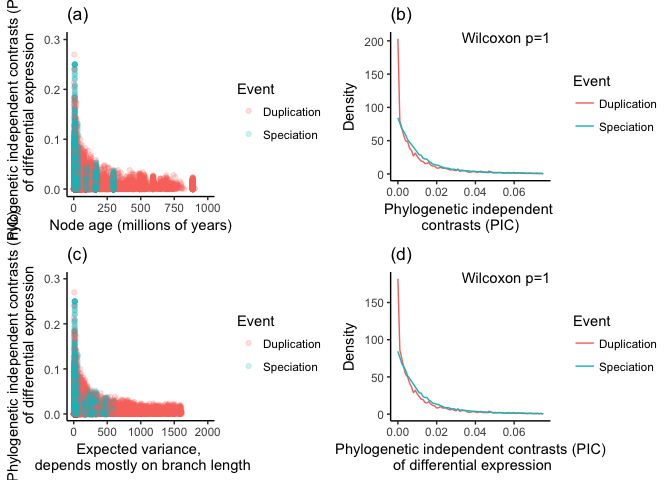
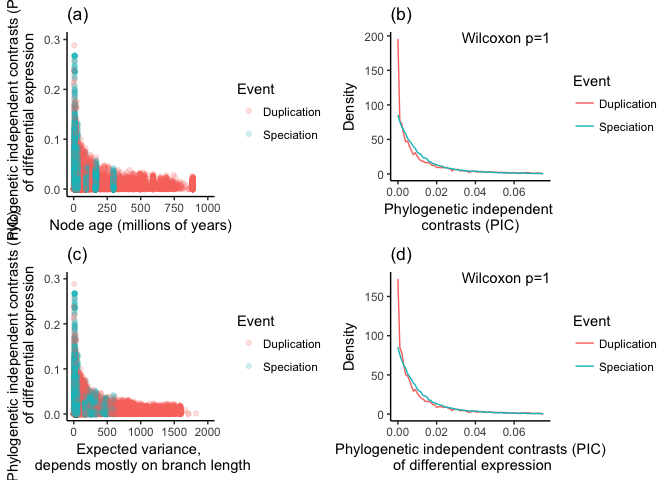
fixed Hominini node names

diff --git a/manuscript.md b/manuscript.md
@@ -67,7 +67,7 @@ To test the ortholog conjecture it is essential to have a null hypothesis that m
 
 > Figure XXKMRR | Density plot of the magnitude of phylogenetic independent contrast values following duplication and speciation events. These contrasts are not larger following duplication events, as predicted by the ortholog conjecture.
 
-When we reanalyze the data with phylogenetic independent contrasts (Fig. 1B), we did not find increased evolutionary change in expression following duplication events (Fig. XXKMRR). Of the 21124 trees that were parsed from ENSMBL Compara<sup>21</sup>, 8859 passed taxon sampling criteria (4 genes) after removing tips without Tau values and had at least one speciation event. Of these, 3739 were successfully time calibrated. These calibrated pruned trees were used to calculate phylogenetic independent contrasts for Tau. They contain 9581 duplication nodes and 31123 speciation nodes.
+When we reanalyze the data with phylogenetic independent contrasts (Fig. 1B), we did not find increased evolutionary change in expression following duplication events (Fig. XXKMRR). Of the 21124 trees that were parsed from ENSMBL Compara<sup>21</sup>, 8859 passed taxon sampling criteria (4 genes) after removing tips without Tau values and had at least one speciation event. Of these, 4763 were successfully time calibrated. These calibrated pruned trees were used to calculate phylogenetic independent contrasts for Tau. They contain 12856 duplication nodes and 43587 speciation nodes.
 
 Given the ortholog conjecture, we would expect to see larger contrasts following duplication events than speciation events. Instead, we find no such distribution (Figure XXKMRR). The Wilcox rank test does not reject the null hypothesis that the rate of evolution following duplications is the same as or less than the rate following speciation (p value = 1). Our results therefore find no evidence for the ortholog conjecture in this system.
 
@@ -75,11 +75,11 @@ We next examined the possibility that ascertainment biases were differentially i
 
 #### Understanding the incongruence between pairwise and phylogenetic methods
 
-In order to better understand why our phylogenetic analysis seems to support a different conclusion (*i.e.*, no support for the ortholog conjecture) than the published analysis of KMRR<sup>8</sup> (*i.e.*, strong support for the ortholog conjecture), we first checked to make sure we could reproduce their result based on pairwise analyses. This is important since we are only looking at at a subset of the data they considered, the Brawand *et al.* 2011<sup>17</sup> dataset for gene trees that could be successfully time calibrated. We can replicate their result - we find a higher Tau correlation between orthologs (R=0.768) then between paralogs (R=0.43).
+In order to better understand why our phylogenetic analysis seems to support a different conclusion (*i.e.*, no support for the ortholog conjecture) than the published analysis of KMRR<sup>8</sup> (*i.e.*, strong support for the ortholog conjecture), we first checked to make sure we could reproduce their result based on pairwise analyses. This is important since we are only looking at at a subset of the data they considered, the Brawand *et al.* 2011<sup>17</sup> dataset for gene trees that could be successfully time calibrated. We can replicate their result - we find a higher Tau correlation between orthologs (R=0.766) then between paralogs (R=0.401).
 
-Why is it that pairwise methods and phylogenetic methods lead to opposite conclusions? The reason is that they describe different things. Pairwise comparisons describe contemporary patterns, while phylogenetic methods infer historical processes. There need not be a different process of evolution following speciation and duplication for paralogs to be more different than orthologs. This could be due to the structure of the gene phylogenies. If paralogs tend to be more distantly related to each other than orthologs, then there would be more time for differences to accumulate even if the rate of change is the same between the two. This is, in fact, the case for these data. While the mean distance between orthologs is 306.9 years, the mean distance between paralogs is 1657.1 years. As described above, this is because the oldest speciation event is by definition the most recent common ancestor of the the species included in the study, but many gene families underwent duplication before this time.
+Why is it that pairwise methods and phylogenetic methods lead to opposite conclusions? The reason is that they describe different things. Pairwise comparisons describe contemporary patterns, while phylogenetic methods infer historical processes. There need not be a different process of evolution following speciation and duplication for paralogs to be more different than orthologs. This could be due to the structure of the gene phylogenies. If paralogs tend to be more distantly related to each other than orthologs, then there would be more time for differences to accumulate even if the rate of change is the same between the two. This is, in fact, the case for these data. While the mean distance between orthologs is 305.3 years, the mean distance between paralogs is 1539.7 years. As described above, this is because the oldest speciation event is by definition the most recent common ancestor of the the species included in the study, but many gene families underwent duplication before this time.
 
-To test the hypothesis that distantly related paralogs arising from these older duplication events are the reason for the lower correlation of Tau between paralogs than between orthologs, we removed them. When we consider only the paralogs that arise from duplication events the same age or younger than the oldest speciation event, the observed pattern is very different. The correlation of Tau between these shallower paralog pairs, R=0.705, is much stronger than for the correlation between all paralog pairs, R=0.43. This is much closer to the ortholog correlation, which has R=0.768.
+To test the hypothesis that distantly related paralogs arising from these older duplication events are the reason for the lower correlation of Tau between paralogs than between orthologs, we removed them. When we consider only the paralogs that arise from duplication events the same age or younger than the oldest speciation event, the observed pattern is very different. The correlation of Tau between these shallower paralog pairs, R=0.673, is much stronger than for the correlation between all paralog pairs, R=0.401. This is much closer to the ortholog correlation, which has R=0.766.
 
 The reason that paralog pairs have Tau values that are more different than ortholog pairs is that they tend to be more distantly related, not because there are different rates of Tau evolution following duplication and speciation events. This means that having information on whether two genes are orthologs or paralogs provides little added information about expression beyond knowing how distantly related the two genes are. Closely related paralogs, for example, are expected to be more similar than distantly related orthologs<sup>20</sup>. This has several implications. It is an example of the limitations of the concepts of orthology and paralogy<sup>22</sup>. These terms can have straightforward meaning in small gene trees with simple duplication/speciation histories, but the utility of the terms breaks down on larger more complex gene trees. Orthology and paralogy are annotations on the tips of the tree that are derived from the inferred structure of the tree and annotations of duplication and speciation at internal tree nodes. In this sense, orthology and paralogy are statements about the internals of the tree that are distilled into statements at the tips of the tree. Much is lost in the process, though. In this case, KMRR<sup>8</sup> relied on orthology and paralogy annotations that are derived from the inferred duplication and speciation history on gene phylogenies<sup>21</sup>. These are the same pre-computed trees we use in our phylogenetic re-analyses of their study. For most questions it is much more direct to focus on the structure of the tree and the inferred processes within the tree, such as which internal nodes are duplication or speciation events and how much change occurs along the branches.
 
@@ -135,7 +135,7 @@ These analyses illustrate how important it is to not conflate evolutionary patte
 Methods
 -------
 
-All files needed to re-execute the analyses presented in this document are available at <https://github.com/caseywdunn/comparative_expression_2017>. The most recent commit at the time of the analysis presented here was fad7570cf5a4201840c77218b6a448967d591f6e. See the `readme.md` file in this repository for more information on the contents of the source file and how to re-execute them.
+All files needed to re-execute the analyses presented in this document are available at <https://github.com/caseywdunn/comparative_expression_2017>. The most recent commit at the time of the analysis presented here was df29f149d3bc4d1fe318c5daac0c73e0b836a29d. See the `readme.md` file in this repository for more information on the contents of the source file and how to re-execute them.
 
 ### KMRR reanalysis
 
